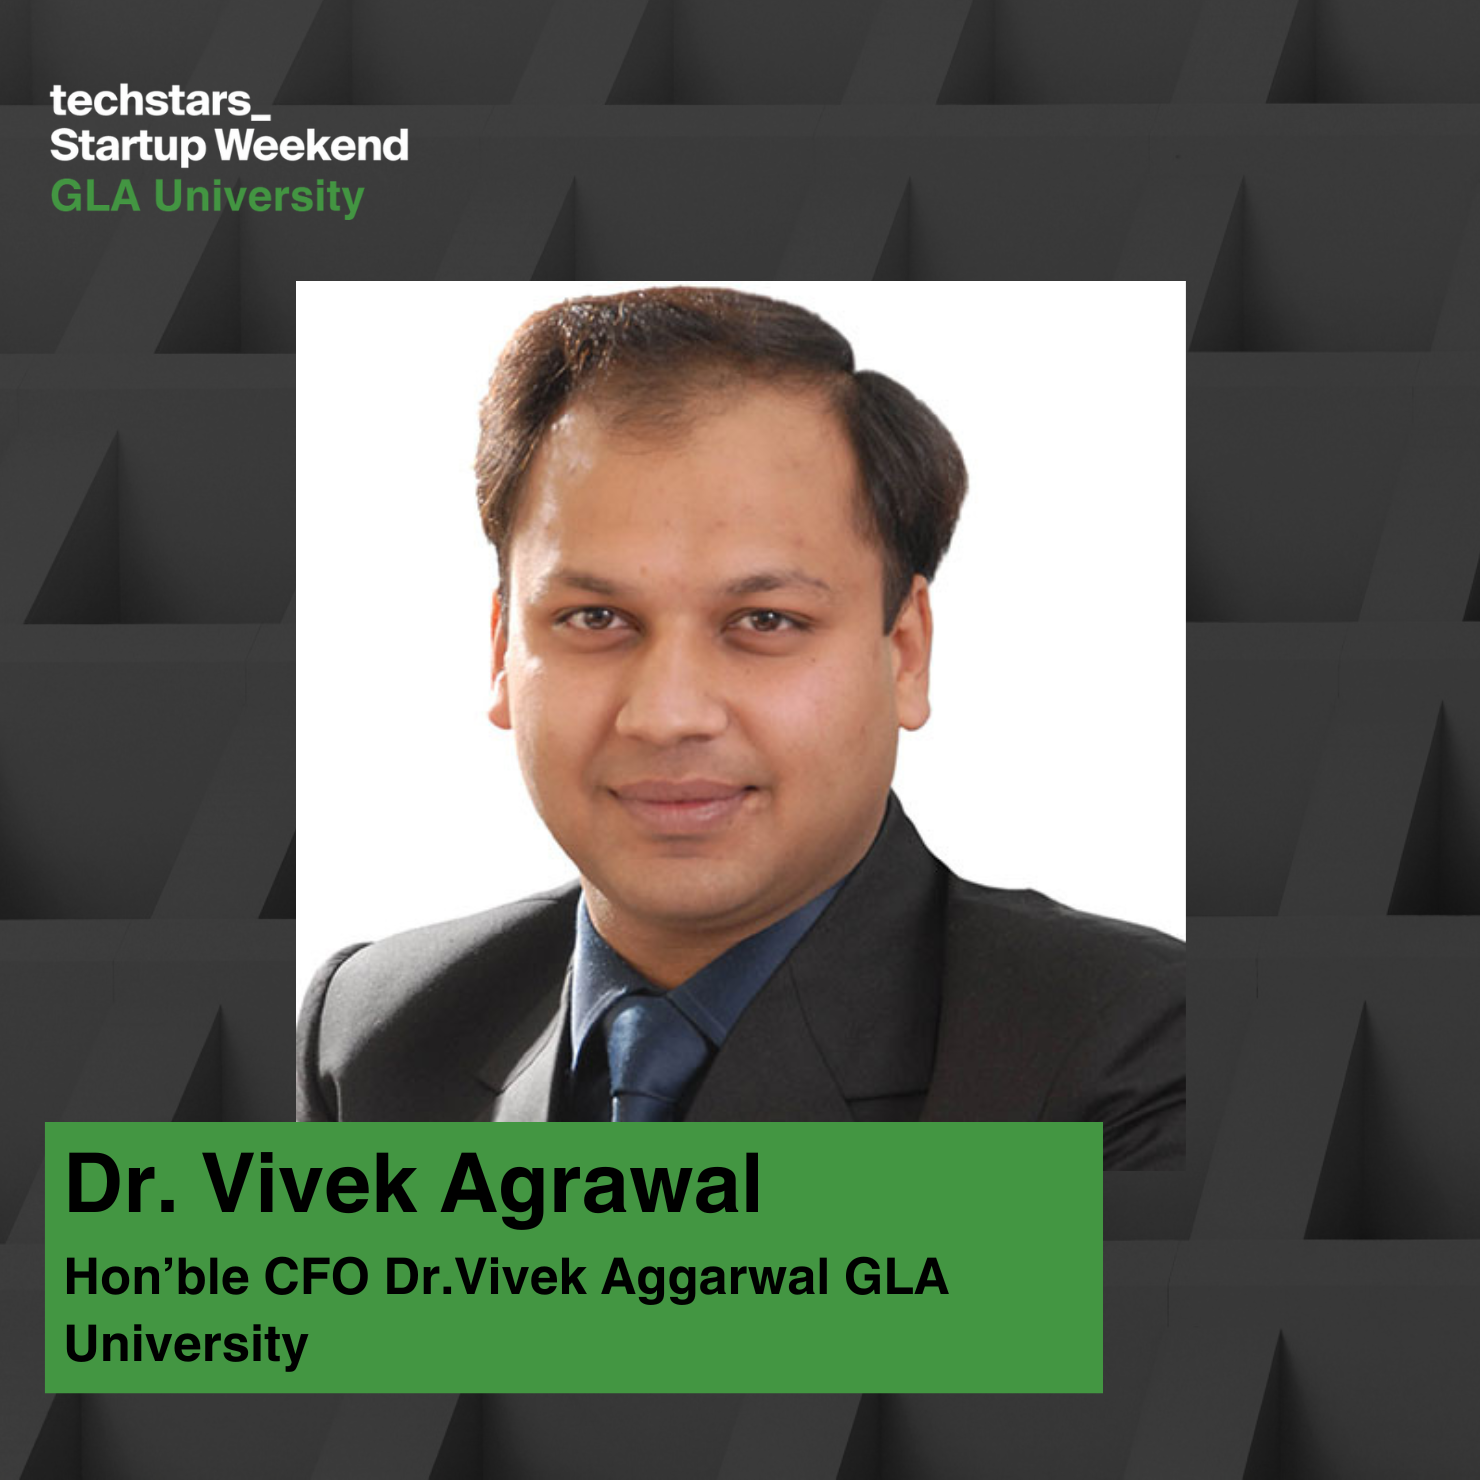
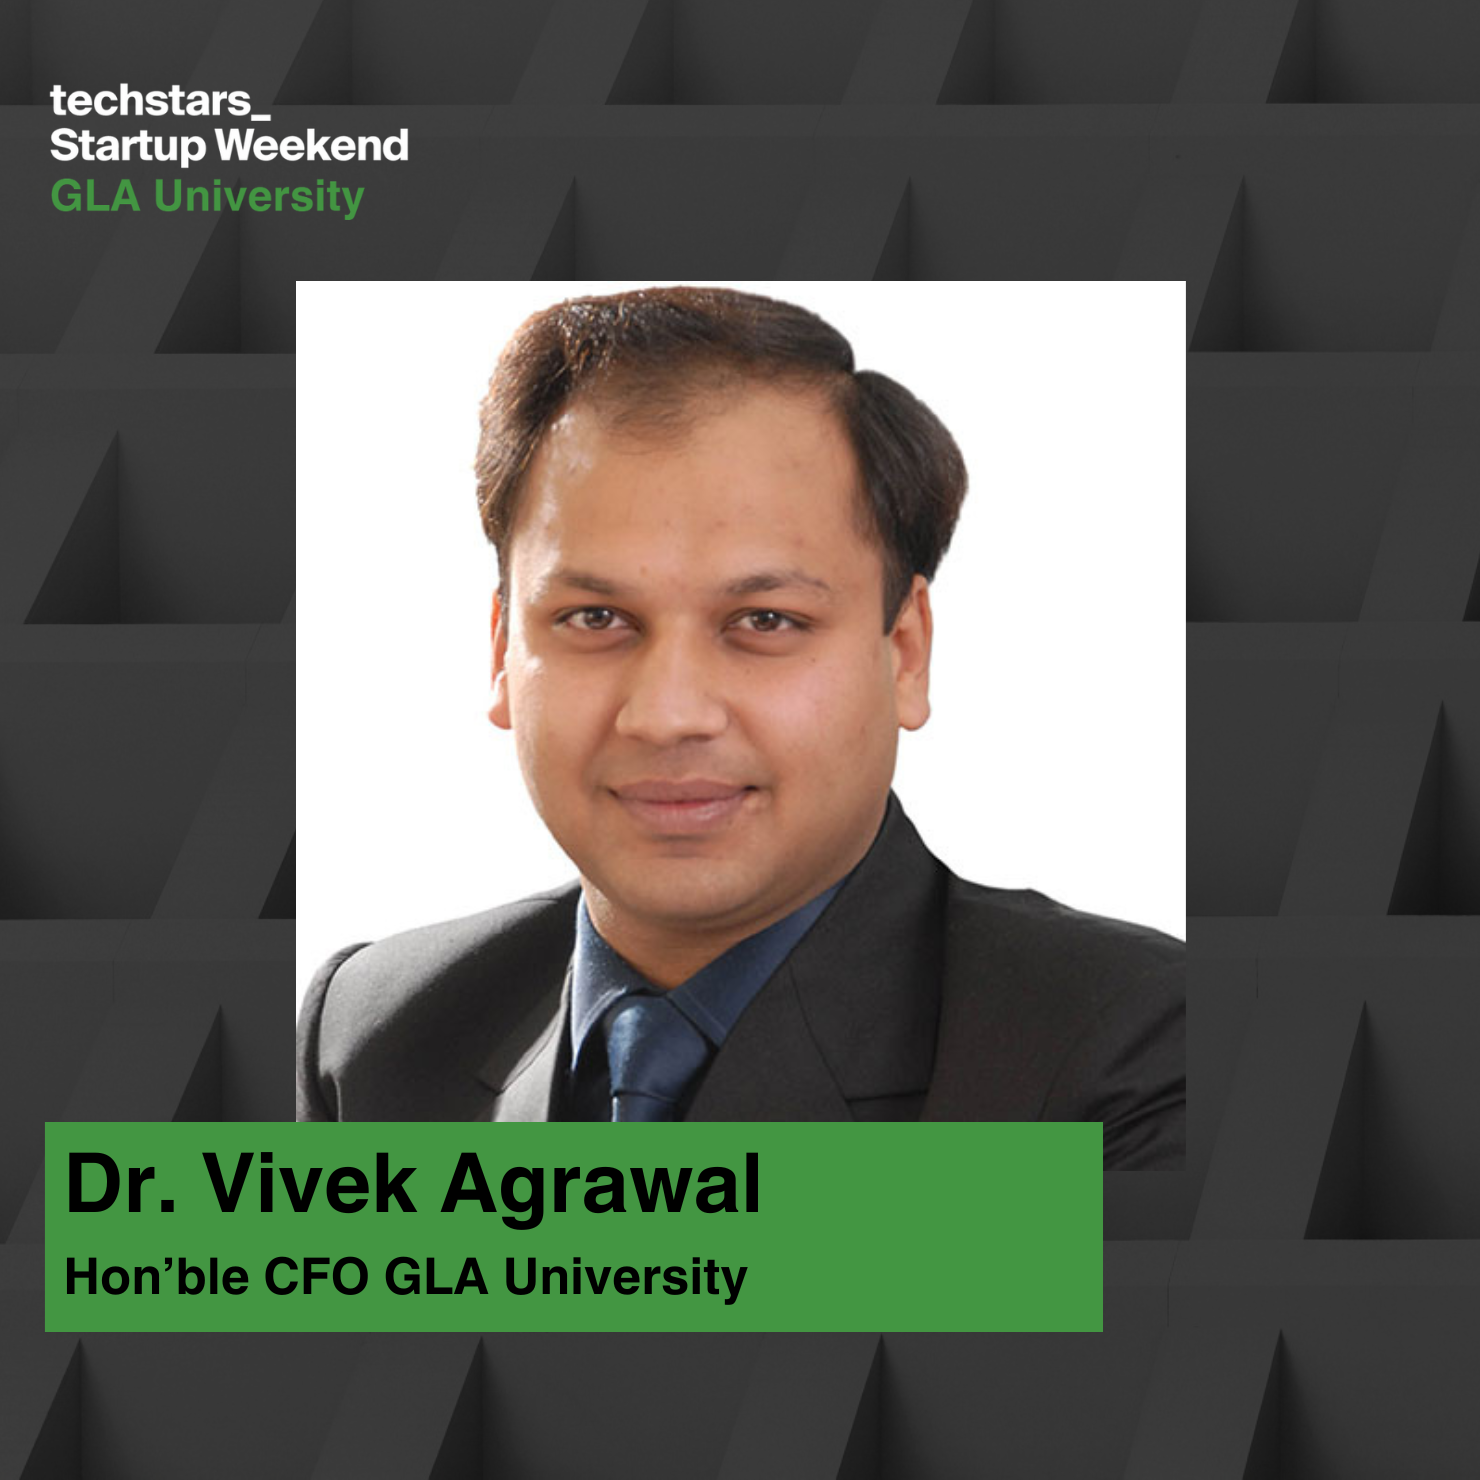
updated cfo sir

Changed region(s): [[0.0311, 0.8392, 0.7459, 0.9635]]

diff --git a/components/sections/home1/section5.tsx b/components/sections/home1/section5.tsx
@@ -91,7 +91,7 @@ export default function Section4() {
 									<div className="text-area">
 										<Link href="/speakers">Dr. Vivek Agrawal</Link>
 										<div className="space16" />
-										<p>Hon’ble CFO Dr.Vivek Aggarwal GLAU</p>
+										<p>Hon’ble CFO GLA University</p>
 									</div>
 								</SwiperSlide>
 								<SwiperSlide className="team-widget-boxarea">
